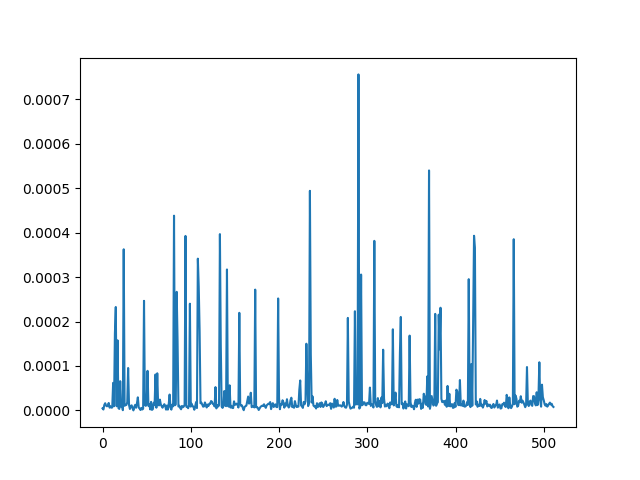
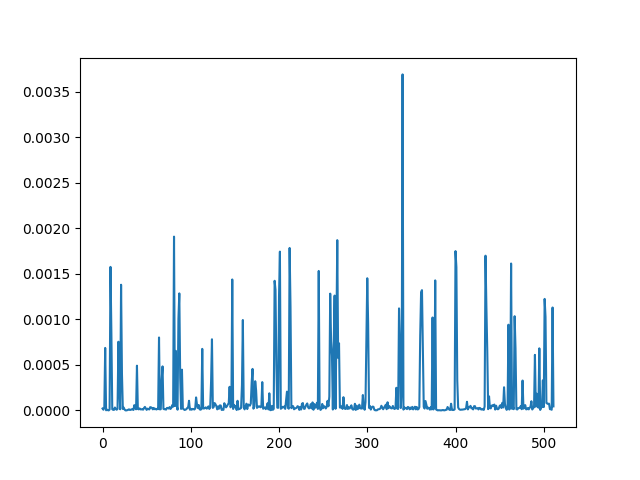
Update target parameter

diff --git a/ensemble.py b/ensemble.py
@@ -20,7 +20,7 @@ class Ensemble():
         self.device = device
         self.model_name = model_name
         self.q_budget = q_budget
-        self.alpha = alpha
+        self.alpha = alpha 
         self.eps = eps
         self.p_value = p_value
         self.delta = delta
@@ -29,14 +29,16 @@ class Ensemble():
                                                      self.device)
         self.model_dirs = model_dirs
         self.num_ensemble = len(self.model_dirs)
-        self.lambdas = np.array([1/4 for _ in range(self.num_ensemble)])
-        self.priv_loss = [] 
-        self.left_over = 0
-        self.target = np.sqrt((2 * self.eps) / (self.q_budget * self.alpha))
+        self.lambdas = np.array([0 for _ in range(self.num_ensemble)])
         self.lambda_history = []
+        self.priv_loss = [] 
+        self.target = np.log(self.num_ensemble * np.exp((self.alpha-1) * self.eps / self.q_budget)
+                        + 1 - self.num_ensemble) / (4 * (self.alpha - 1))
+        print(f"Target value {self.target:2f}")
         self.beta = 0.01
         self.sigma = np.sqrt((self.q_budget * (3 * self.alpha + 2)) / self.eps)
         self.lora_ensemble = 0 
+        self.pairs = [(i, i+1) for i in range(0, self.num_ensemble, 2)]
         for i, dir in enumerate(self.model_dirs):
             if i == 0:
                 self.lora_ensemble = PeftModel.from_pretrained(copy.deepcopy(
@@ -92,37 +94,36 @@ class Ensemble():
                                                     output_dists[self.num_ensemble],
                                                     ) for i in range(self.num_ensemble)]
         #self.lambdas = [0.1 for i in range(self.num_ensemble)]
+        p_pub = output_dists[self.num_ensemble]
         self.lambda_history.append(np.mean([lambd for lambd in self.lambdas]))
         mixed_dists = [self.mix(output_dists[i], output_dists[self.num_ensemble], self.lambdas[i])
                        for i in range(self.num_ensemble)]
-
         mixed_dists = torch.stack(mixed_dists)
         ensemble_dist = mixed_dists.mean(dim=0) 
-        pub = output_dists[self.num_ensemble]
-        loss = self.data_dependent_loss(mixed_dists, alpha=self.alpha)
-        #ub_loss = self.data_dependent_loss_ub(mixed_dists, pub, beta=self.beta, sigma=self.sigma)
+        loss = self.data_dependent_loss(mixed_dists, p_pub, alpha=self.alpha)
+        '''
+        for i in range(self.num_ensemble):
+            p_i = torch.cat((mixed_dists[:i, :], mixed_dists[i+1:, :])).mean(dim=0)
+            eps = max(self.renyiDiv(p_i, mixed_dists[i], self.alpha),
+                      self.renyiDiv(mixed_dists[i], p_i, self.alpha))
+            if eps > self.eps/self.q_budget:
+                print(i, eps)
+            #print(i, self.data_independent_loss(mixed_dists[i], p_pub, self.alpha))
+        '''
+        if loss > self.eps/(self.q_budget):
+            print(loss)
         self.priv_loss.append(loss) 
         return ensemble_dist
 
-    def indiv_priv_loss(self, mixed_dists, i):
-        p = mixed_dists.mean(dim=0)
-        p_i = torch.cat((mixed_dists[:i, :], mixed_dists[i+1:, :])) 
-        return max(self.renyiDiv(p, p_i, alpha=self.alpha), self.renyiDiv(p_i, p, alpha=self.alpha))
-
-    def data_dependent_loss(self, mixed_dists, alpha, ret_idx=False):
+    def data_dependent_loss(self, mixed_dists, p_pub, alpha, ret_idx=False):
         max_loss = 0
         idx = -1 
         p = mixed_dists.mean(dim=0)
-        models = [i for i in range(len(mixed_dists))]
-        X = combinations(models, len(mixed_dists)-1)
-        for x in X:
-            p_i = mixed_dists[list(x)].mean(dim=0)
+        for i in range(mixed_dists.size()[0]):
+            p_i = torch.cat((mixed_dists[:i, :], mixed_dists[i+1:, :])).mean(dim=0)
             eps = max(self.renyiDiv(p, p_i, alpha=alpha),
              self.renyiDiv(p_i, p, alpha=alpha))
-            if max_loss < eps:
-                idx = set(models).difference(set(x))
-                max_loss = eps
-            
+            max_loss = max(max_loss, eps)
         return (max_loss, idx.pop()) if ret_idx else max_loss
     
     def data_dependent_loss_ub(self, mixed_dists, pub, beta, sigma):
@@ -162,14 +163,6 @@ class Ensemble():
             used_idx.append(id)
             ranked_dists = torch.cat((ranked_dists, mixed_dists[[id]]))
 
-        #for k in range(self.num_ensemble, 2, -1):
-            #X_prime = combinations(X, k) 
-            #ss_prime = max(np.exp(-beta * k) * np.array([self.local_sensitivity(mixed_dists[list(x_prime)]) for x_prime in X_prime]))
-            #ss_prime_eff = np.exp(-beta * k) * self.local_sensitivity(ranked_dists[:k, :]) 
-            #ss_prime_eff = np.exp(-beta * k) * abs(self.data_dependent_loss(ranked_dists[:k, :]) - self.data_dependent_loss(ranked_dists[1:k, :]))
-            #print(f"k={self.num_ensemble-k}, Smooth Sensitivity={ss_prime}")
-            #print(f"calc Smooth Sensitivity={ss_prime_eff}")
-            #ss = max(ss, ss_prime_eff)
         ss_prime_eff = np.exp(-beta * k) * self.local_sensitivity(ranked_dists[:3, :]) 
         return ss_prime_eff
 
@@ -178,15 +171,15 @@ class Ensemble():
         X = combinations([i for i in range(len(mixed_dists))], len(mixed_dists)-1)
         return max([abs(eps - self.data_dependent_loss(mixed_dists[list(x)], alpha=self.alpha, ret_idx=False)) for x in X])
     
-    def data_independent_loss(self, p_mix, p_pub):
-        return  max(self.renyiDiv(p_mix, p_pub, alpha=self.alpha),
-                   self.renyiDiv(p_pub, p_mix, alpha=self.alpha)).item()
+    def data_independent_loss(self, p_mix, p_pub, alpha):
+        return  max(self.renyiDiv(p_mix, p_pub, alpha=alpha),
+                   self.renyiDiv(p_pub, p_mix, alpha=alpha)).item()
 
-    def lambda_solver_bisection(self, p_priv, p_pub):
+    def lambda_solver_bisection(self, p, p_pub):
         def f(lambd):
-            pred = lambd * p_priv + (1-lambd) * p_pub
-            eps = self.data_independent_loss(pred, p_pub)
-            return (eps - (self.eps/self.q_budget + self.left_over))
+            pred = self.mix(p, p_pub, lambd)
+            eps = self.data_independent_loss(pred, p_pub, self.alpha)
+            return (eps - self.target)#self.eps/self.q_budget)
         if f(1) <= 0.0:
             lambd = 1 
         else:
@@ -194,10 +187,20 @@ class Ensemble():
         return lambd
 
     def lambda_solver(self, p_priv, p_pub):
-        val_1 = ((np.exp((self.target + self.left_over)) - 1) * p_pub) / (p_priv - p_pub)
-        val_2 = ((1 / np.exp((self.target + self.left_over)) - 1) * p_pub) / (p_priv - p_pub)
+        #val_1 = ((np.exp(self.target) - 1) * p_pub) / (p_priv - p_pub)
+        #val_2 = ((1 / np.exp(self.target) - 1) * p_pub) / (p_priv - p_pub)
+        #val = torch.max(val_1, val_2)
+        #val = torch.min(val, torch.ones(val.size()[0]))
+        val_1 = ((np.exp((self.alpha-1)*(self.eps/self.q_budget)) - 1) / (
+                torch.sum((p_pub**(self.alpha)) / (p_priv**(self.alpha-1))) - 1 
+                )
+        )
+        val_2 = ((np.exp((self.alpha-1)*(self.eps/self.q_budget)) - 1) / ( 
+                torch.sum((p_priv**(self.alpha)) / (p_pub**(self.alpha-1))) - 1 
+                )
+        )
+        print(val_1, val_2)
         val = torch.max(val_1, val_2)
-        val = torch.min(val, torch.ones(val.size()[0]))
         return val
 
     def mix(self, p, p_prime, lambd=0.5):

diff --git a/prediction_experiments.py b/prediction_experiments.py
@@ -17,7 +17,7 @@ import numpy as np
 import math
 
 def main(args):
-    set_seed(args.seed)
+    set_seed(0)
     #alpha = math.ceil(4 * np.log(1/args.delta) / (3*args.epsilon) + 1)
     alpha = args.alpha
     #epsilon = args.epsilon - np.log(1/args.delta)/(args.alpha-1)
@@ -78,8 +78,7 @@ def main(args):
     dp_fine_tuned_neg_log_likelihood = []
     priv_neg_log_likelihood= []
     ensemble_neg_log_likelihood= []
-
-    test_loader = DataLoader(test_data, shuffle=True)
+    test_loader = DataLoader(test_data.select([i + args.start for i in range(args.start+1)]))#, shuffle=True)
     priv_loss = []
     lambdas = []
     fine_tuned_model.eval()
@@ -267,6 +266,8 @@ if __name__ == "__main__":
     parser.add_argument("--temperature", type=float, default=1.0)
     parser.add_argument("--p_value", type=float, default=1.0)
     parser.add_argument("--e_value", type=float, default=0.01)
+    parser.add_argument("--iters", type=int, default=1)
+    parser.add_argument("--start", type=int, default=0)
     args = parser.parse_args()
 
     pub_ppl_list = []
@@ -274,8 +275,8 @@ if __name__ == "__main__":
     dpsgd_ppl_list = []
     mix_ppl_list = []
     ensemble_ppl_list = []
-    for i in tqdm.tqdm(range(0, 5)):
-        args.seed = i 
+    for i in tqdm.tqdm(range(0, args.iters)):
+        args.start = i 
         pub_ppl, priv_ppl, dpsgd_ppl, mix_ppl, ensemble_ppl = main(args)
         pub_ppl_list.append(pub_ppl)
         priv_ppl_list.append(priv_ppl)
